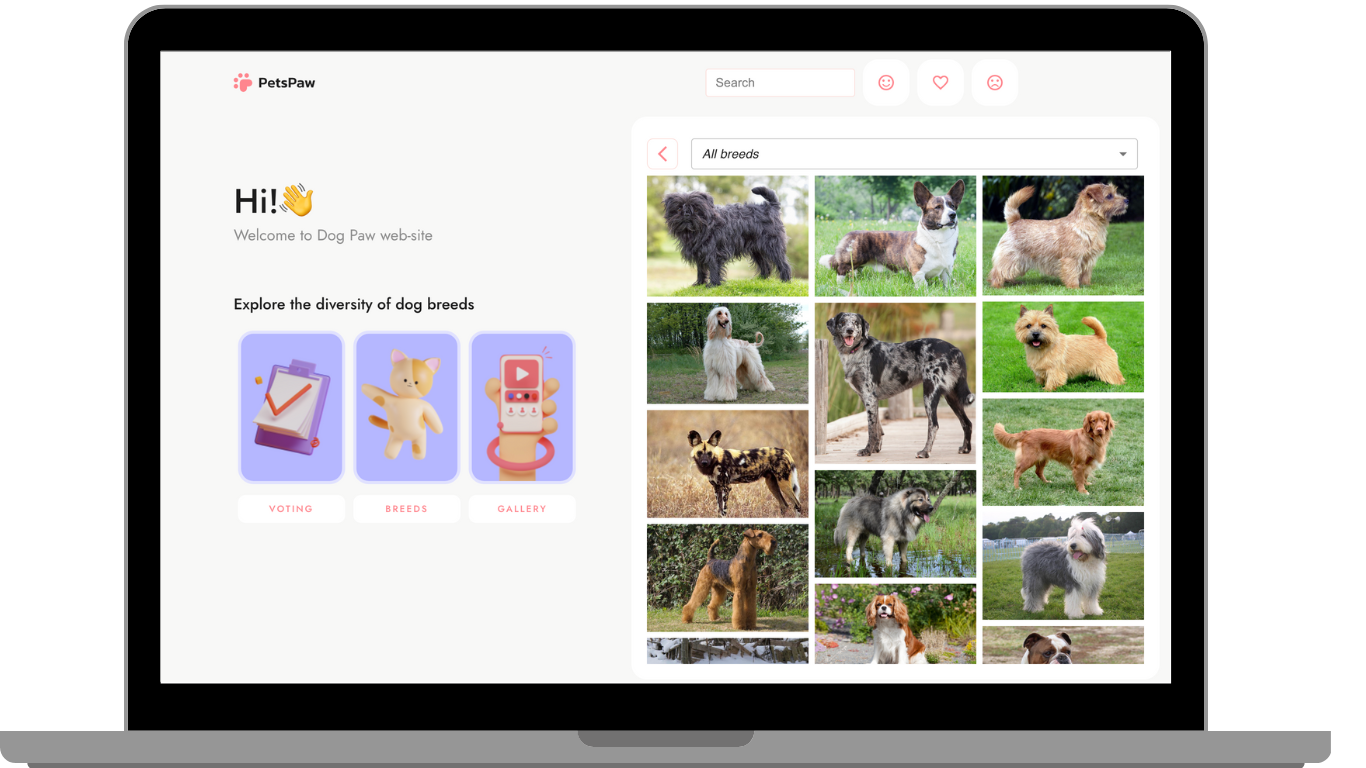
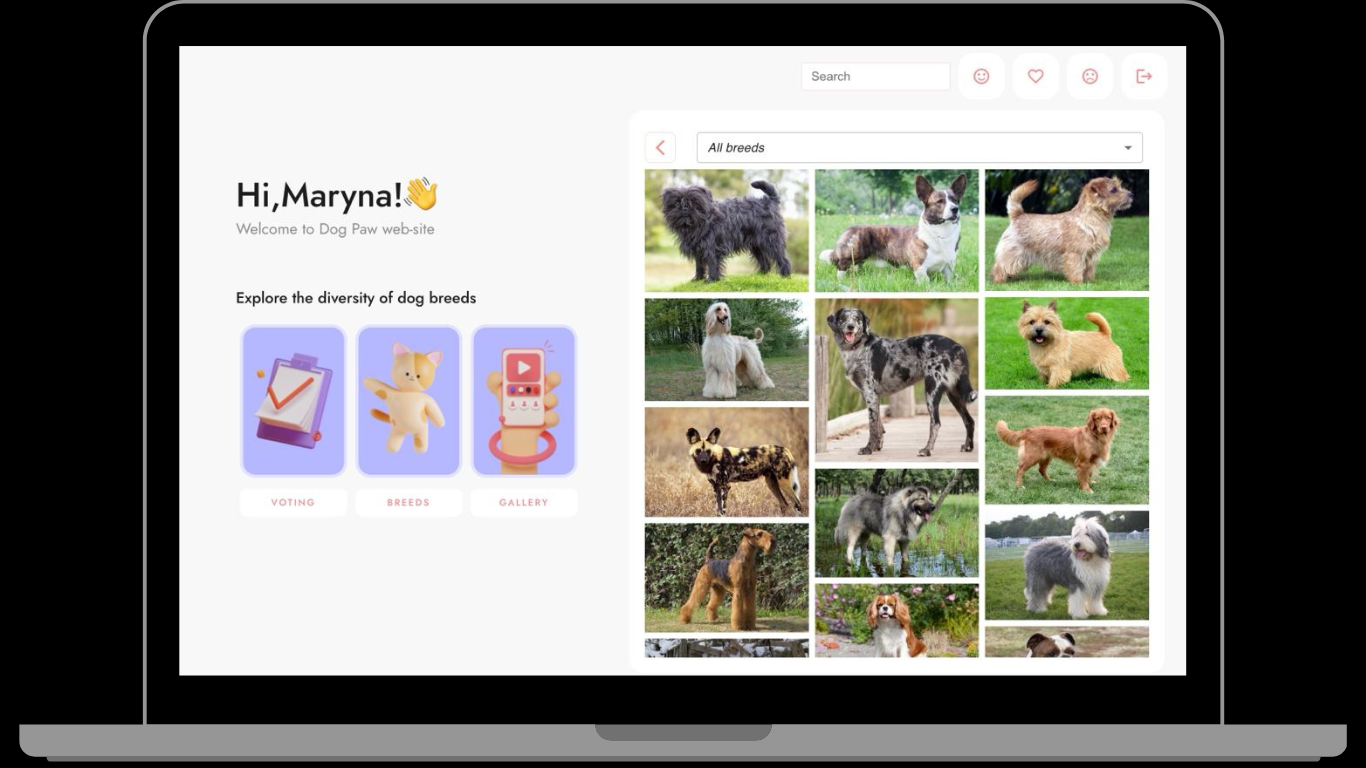
fix readme

diff --git a/README.md b/README.md
@@ -1,6 +1,10 @@
 "Dog Paw"
 
-Code Technologies: REACT+REDUX;
+Code Technologies:
+ REACT+REDUX;
+ Firebase;
+ Mui;
+
 SITE FUNCTIONALITY:
 * User registration and authorization;
 * Voting: adding/removing a vote, viewing votes for an authorized user;
@@ -11,3 +15,4 @@ SITE FUNCTIONALITY:
 * Dog search.
 
 ![Image alt](https://github.com/zhukmarina/dog_paw/blob/main/public/img/dogPaw.png)
+![Image alt](https://github.com/zhukmarina/dog_paw/blob/main/public/img/dogPaw1.png)
